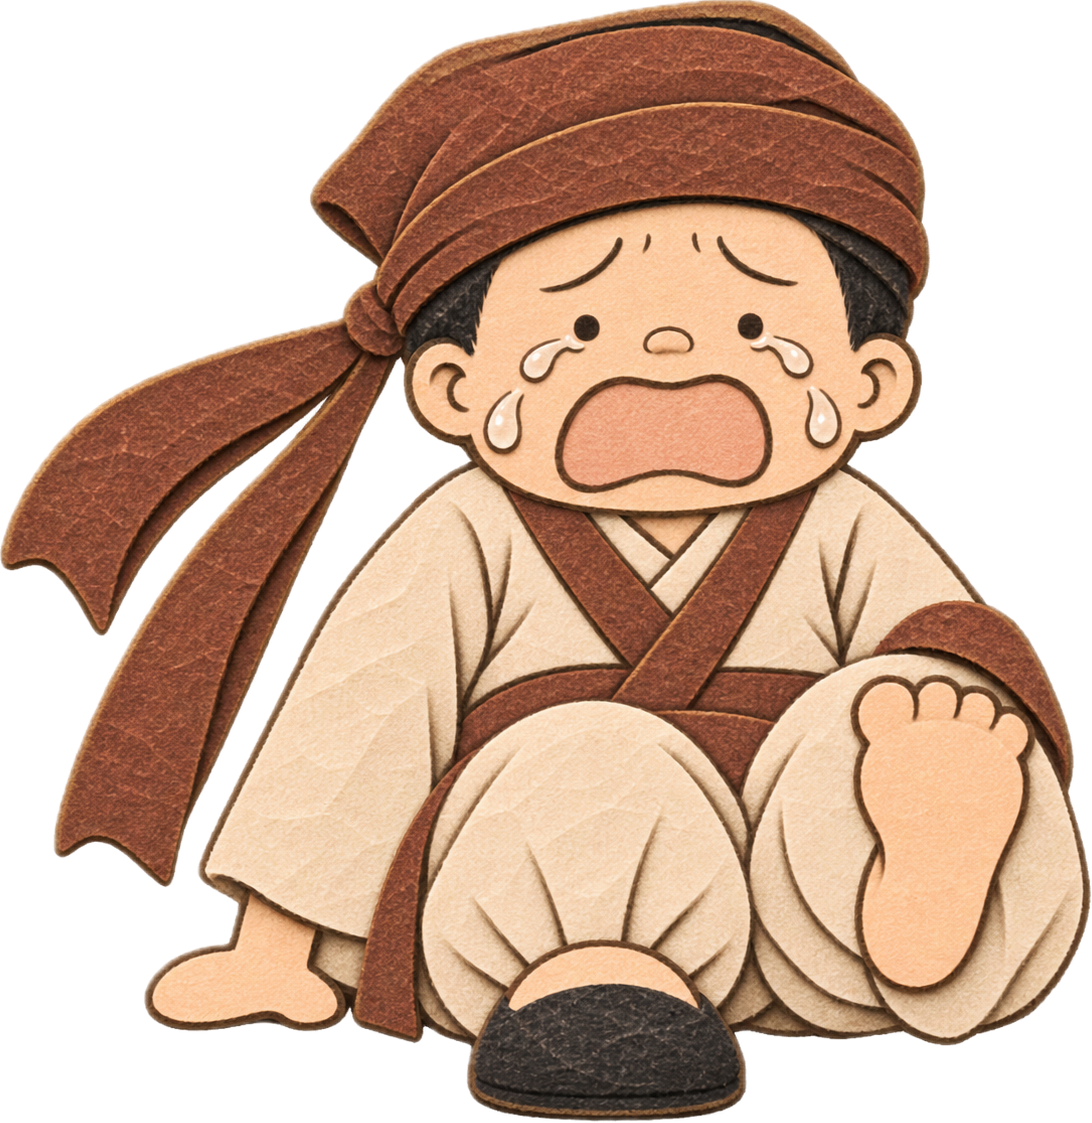
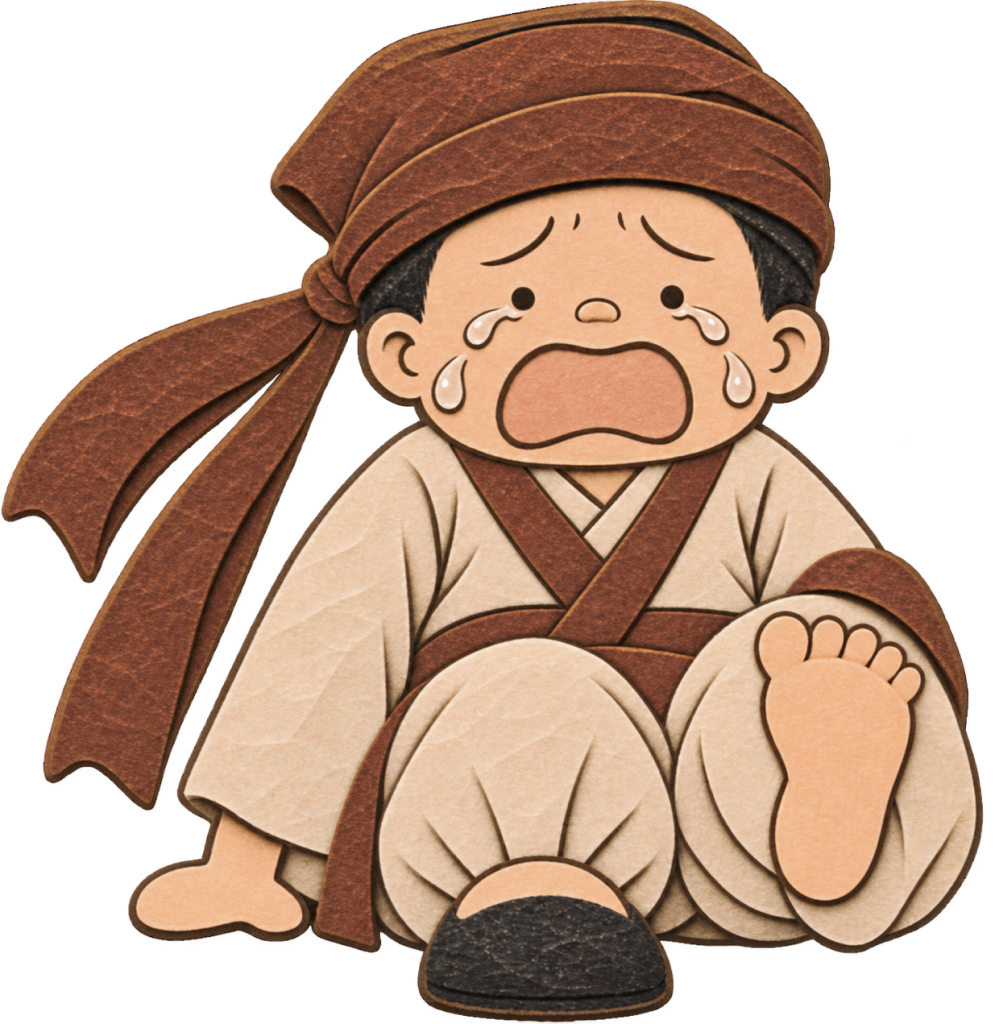
fix: 봉인 카드 위치와 만복 컷신 이미지 갱신 (#630)

Changed region(s): [[0.0, 0.0, 1.0, 1.0], [0.3109, 0.6562, 0.342, 0.6875], [0.2798, 0.6875, 0.3109, 0.7188]]

diff --git a/Assets/Hapio/Editor/StageStoryAssets.cs b/Assets/Hapio/Editor/StageStoryAssets.cs
@@ -169,7 +169,7 @@ namespace Hapio.Editor
         }
         private static void BuildCard(GameObject root, Frame frontFrame, Frame backFrame)
         {
-            const float x=44,y=152,w=313.7531f,h=570.4908f;
+            const float x=44,y=163,w=313.7531f,h=570.4908f;
             var body=Rect("Card Turn Pivot",root.transform,new Rect(x,y,w,h));body.pivot=Vector2.one*.5f;body.anchoredPosition+=new Vector2(w/2,-h/2);
             var front=Rect("Front",body,new Rect(0,0,w,h));var back=Rect("Back",body,new Rect(0,0,w,h));
             // Card body bounds separate the flipping paper from the fixed header/clouds/instructions.

diff --git a/docs/STAGE_STORY_PRESENTATION.md b/docs/STAGE_STORY_PRESENTATION.md
@@ -114,3 +114,9 @@ gauge.Show(normalizedSealRate);
 ## 내 칭호 강조
 
 부적 카드 뒷면과 패배 대시보드의 칭호 표는 실행 중 `StoryRecordHighlight`가 처리한다. 프리팹에 저장된 시안의 빨간 띠 2개(1·4행)를 끄고, 이 기기의 플레이어가 받은 칭호 줄마다(동점 포함) 띠를 복제해 얹는다. 해당 줄의 글자는 밝은색, 나머지는 어두운색이며 내 이름에는 `(나)`를 붙인다. 받은 칭호가 없으면 강조하지 않는다. 패배 대시보드에는 `StoryCardRecords`가 없어 같은 데이터로 누구·기록 칸도 채운다. 줄은 저장된 칭호 글자로 찾으므로 프리팹의 칭호 글자나 `Rectangle 124` 이름을 바꾸면 강조가 동작하지 않는다. 프리팹과 Editor 미리보기에는 시안 띠가 그대로 남는다.
+
+## 2026-11-10 봉인 카드 Figma 위치 갱신
+
+구미호·야광귀·지귀의 봉인 성공 제목, 카드 앞뒷면과 뒤집기 안내(손 아이콘 포함)를 Figma 변경에 맞춰 기준 캔버스에서 11px 아래로 옮겼다. 기존 카드 내부 구성·봉인 글씨 보정·뒤집기와 관람 버튼 연결을 유지한다. ImportedFrames와 카드 생성 기준 y=163도 함께 갱신해 재생성 시 같은 배치를 사용한다.
+
+야광귀 후일담 두 번째 컷의 만복 노드 `4210:3280`은 Figma의 발가락 5개 이미지로 교체했다. 기존 `9483e.png` 파일명과 GUID를 유지하며 이미지 내용만 갱신했다(Figma 최신 이미지 키 `d34a4.png`). 위치·크기와 등장 연출은 유지한다.
